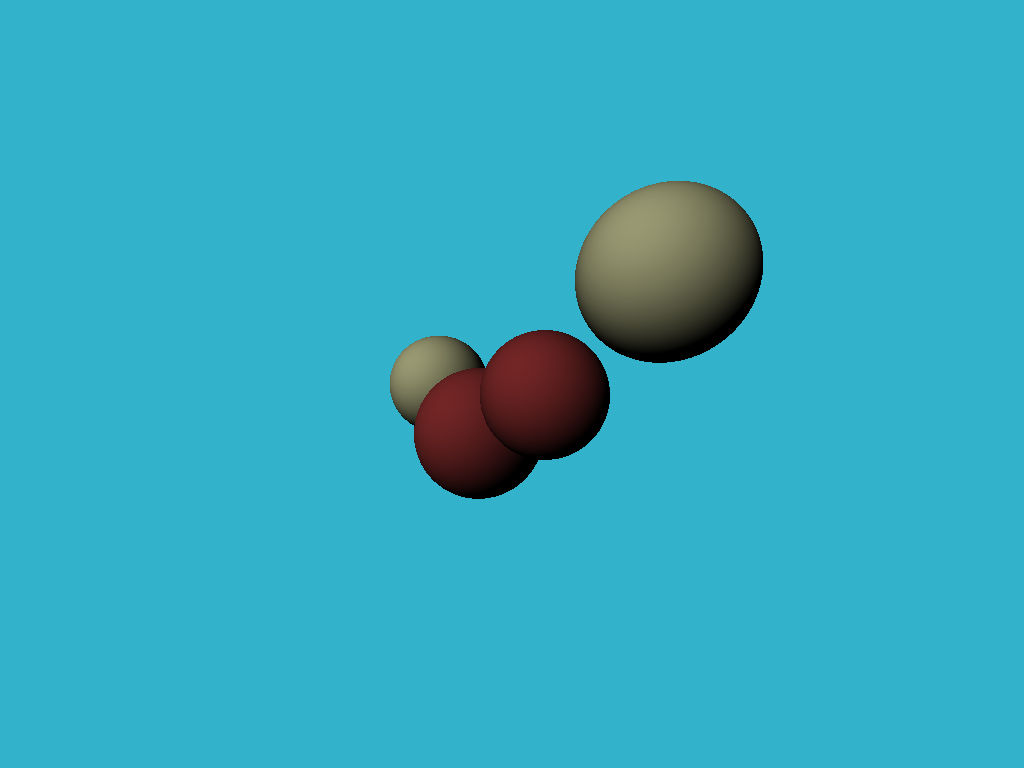
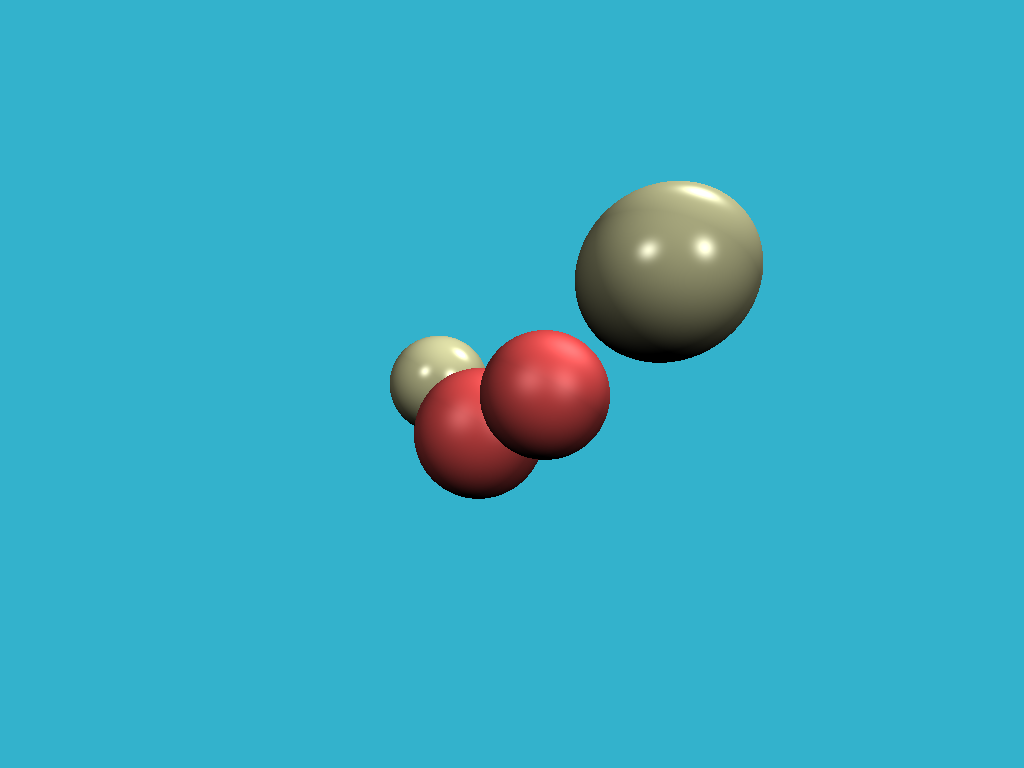
Step 5 Specular reflection

Changed region(s): [[0.375, 0.2188, 0.75, 0.6562]]

diff --git a/src/main.rs b/src/main.rs
@@ -1,5 +1,20 @@
-use glam::Vec3;
+use glam::{Vec2, Vec3};
 use image::{Rgb, RgbImage};
+
+trait ToRgb {
+    fn to_rgb(&self) -> Rgb<u8>;
+}
+
+impl ToRgb for Vec3 {
+    fn to_rgb(&self) -> Rgb<u8> {
+        let clamped = self.clamp(Vec3::ZERO, Vec3::ONE);
+        Rgb([
+            (255.0 * clamped.x) as u8,
+            (255.0 * clamped.y) as u8,
+            (255.0 * clamped.z) as u8,
+        ])
+    }
+}
 
 #[derive(Copy, Clone)]
 struct Light {
@@ -7,11 +22,11 @@ struct Light {
     intensity: f32,
 }
 
-impl Default for Light {
-    fn default() -> Self {
+impl Light {
+    fn new(position: Vec3, intensity: f32) -> Light {
         Light {
-            position: (-20.0, 20.0, 20.0).into(),
-            intensity: 1.5,
+            position,
+            intensity,
         }
     }
 }
@@ -19,26 +34,46 @@ impl Default for Light {
 #[derive(Copy, Clone)]
 struct Material {
     diffuse_colour: Vec3,
+    albedo: Vec2,
+    specular_exponent: f32,
 }
 
 impl Material {
-    fn new(diffuse_colour: Vec3) -> Self {
-        Material { diffuse_colour }
+    const fn new(diffuse_colour: Vec3, albedo: Vec2, specular_exponent: f32) -> Self {
+        Material {
+            diffuse_colour,
+            albedo,
+            specular_exponent,
+        }
     }
 
-    fn ivory() -> Self {
-        Self::new((0.4, 0.4, 0.3).into())
-    }
+    const IVORY: Self = Self::new(
+        Vec3 {
+            x: 0.4,
+            y: 0.4,
+            z: 0.3,
+        },
+        Vec2 { x: 0.6, y: 0.3 },
+        50.0,
+    );
 
-    fn red_rubber() -> Self {
-        Self::new((0.3, 0.1, 0.1).into())
-    }
+    const RED_RUBBER: Self = Self::new(
+        Vec3 {
+            x: 0.3,
+            y: 0.1,
+            z: 0.1,
+        },
+        Vec2 { x: 0.9, y: 0.1 },
+        10.0,
+    );
 }
 
 impl Default for Material {
     fn default() -> Self {
         Material {
             diffuse_colour: (0.2, 0.7, 0.8).into(),
+            albedo: Vec2::default(),
+            specular_exponent: 0.0,
         }
     }
 }
@@ -89,19 +124,32 @@ impl Sphere {
 }
 
 fn cast_ray(origin: &Vec3, direction: &Vec3, spheres: &Vec<Sphere>, lights: &Vec<Light>) -> Vec3 {
+    let ones: Vec3 = (1.0, 1.0, 1.0).into();
     match scene_intersect(origin, direction, spheres) {
         Some((material, point, normal)) => {
             let mut diffuse_light_intensity: f32 = 0.0;
+            let mut specular_light_intensity: f32 = 0.0;
 
             for light in lights {
                 let light_dir = (light.position - point).normalize();
                 diffuse_light_intensity += light.intensity * f32::max(0.0, light_dir.dot(normal));
+                let reflection = reflect(&light_dir, &normal);
+                specular_light_intensity += f32::powf(
+                    f32::max(0.0, reflection.dot(*direction)),
+                    material.specular_exponent,
+                ) * light.intensity;
             }
 
-            return material.diffuse_colour * diffuse_light_intensity;
+            return material.diffuse_colour * diffuse_light_intensity * material.albedo.x
+                + ones * specular_light_intensity * material.albedo.y;
         }
         None => Material::default().diffuse_colour,
     }
+}
+
+fn reflect(inverse: &Vec3, normal: &Vec3) -> Vec3 {
+    let inverse_dot_norm = inverse.dot(*normal);
+    *inverse - 2.0 * (*normal) * inverse_dot_norm
 }
 
 fn scene_intersect(
@@ -151,14 +199,7 @@ fn render(
 
             let direction = Vec3::new(x, y, -1.0).normalize();
             let casted = cast_ray(&origin, &direction, spheres, lights);
-
-            let pixel = Rgb([
-                (255.0 * f32::max(0.0, f32::min(casted.x, 1.0))) as u8,
-                (255.0 * f32::max(0.0, f32::min(casted.y, 1.0))) as u8,
-                (255.0 * f32::max(0.0, f32::min(casted.z, 1.0))) as u8,
-            ]);
-
-            framebuffer.put_pixel(i, j, pixel);
+            framebuffer.put_pixel(i, j, casted.to_rgb());
         }
     }
 
@@ -170,28 +211,22 @@ fn main() -> std::result::Result<(), Box<dyn std::error::Error>> {
     let mut spheres = Vec::new();
     let mut lights = Vec::new();
 
-    spheres.push(Sphere::new(
-        (-3.0, 0.0, -16.0).into(),
-        2.0,
-        Material::ivory(),
-    ));
+    spheres.push(Sphere::new((-3.0, 0.0, -16.0).into(), 2.0, Material::IVORY));
     spheres.push(Sphere::new(
         (-1.0, -1.5, -12.0).into(),
         2.0,
-        Material::red_rubber(),
+        Material::RED_RUBBER,
     ));
     spheres.push(Sphere::new(
         (1.5, -0.5, -18.0).into(),
         3.0,
-        Material::red_rubber(),
+        Material::RED_RUBBER,
     ));
-    spheres.push(Sphere::new(
-        (7.0, 5.0, -18.0).into(),
-        4.0,
-        Material::ivory(),
-    ));
+    spheres.push(Sphere::new((7.0, 5.0, -18.0).into(), 4.0, Material::IVORY));
 
-    lights.push(Light::default());
+    lights.push(Light::new((-20.0, 20.0, 20.0).into(), 1.5));
+    lights.push(Light::new((30.0, 50.0, -25.0).into(), 1.8));
+    lights.push(Light::new((30.0, 20.0, 30.0).into(), 1.7));
 
     render(&spheres, &lights)?;
     Ok(())
